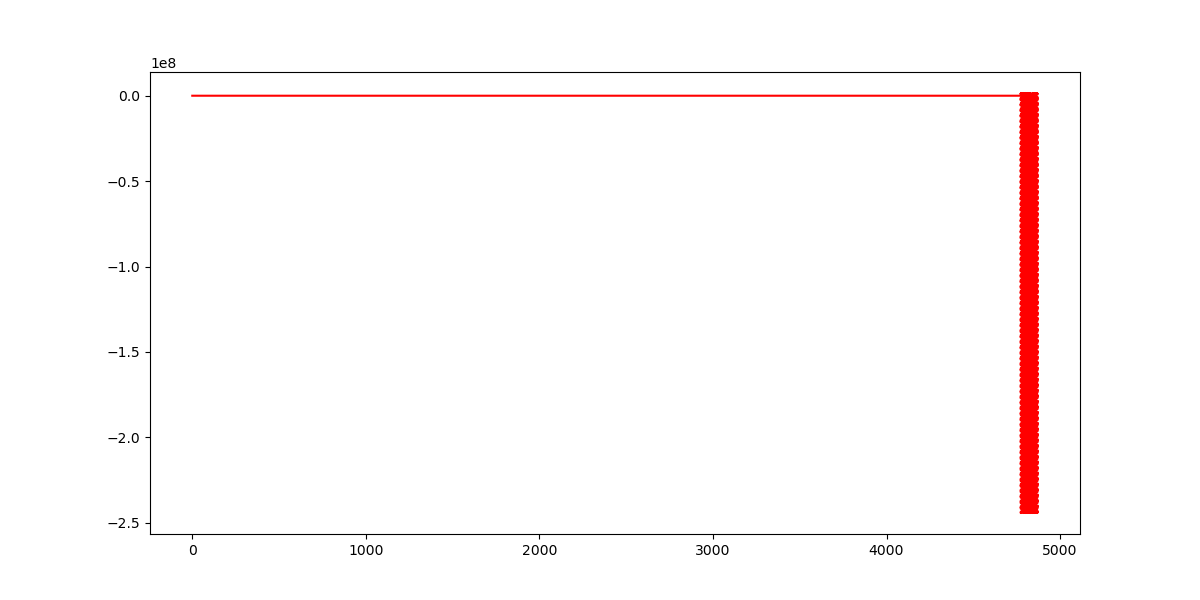
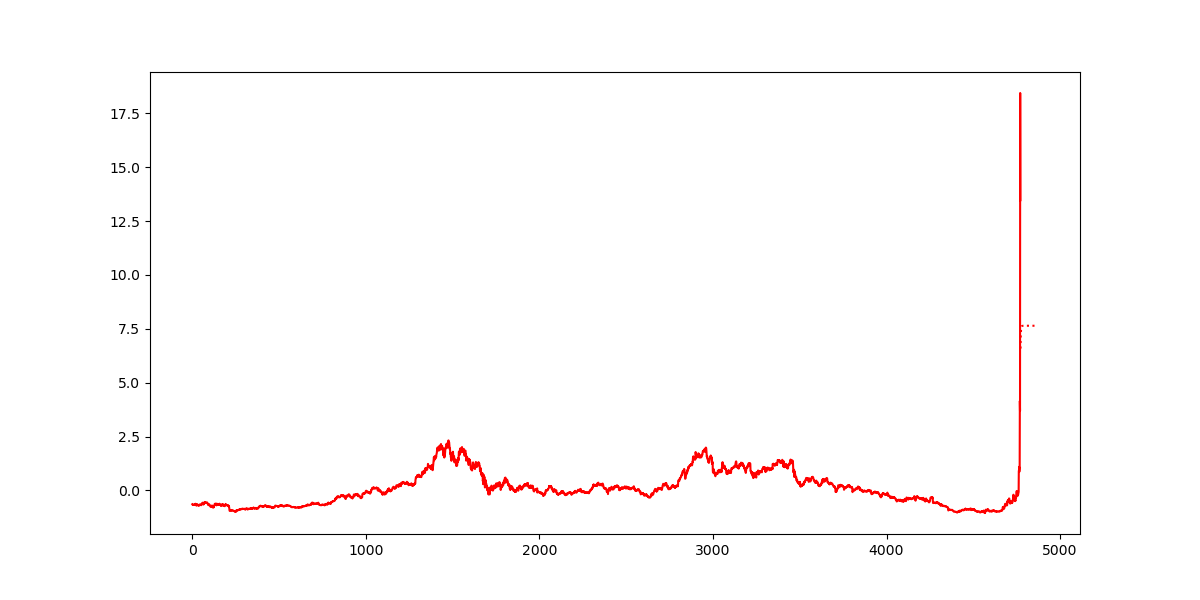
Add files via upload

diff --git a/run.py b/run.py
@@ -5,18 +5,60 @@ from tqdm import tqdm
 from torch.nn import *
 import torch
 import numpy as np
+from sklearn.preprocessing import (
+    StandardScaler,
+    RobustScaler,
+    MinMaxScaler,
+    MaxAbsScaler,
+    OneHotEncoder,
+    LabelEncoder,
+    Normalizer,
+)
 import pandas as pd
 import wandb
 from torch.optim import *
 from model import Model
-device = 'cuda'
-data = pd.read_csv('./data/data.csv')
-data = torch.from_numpy(np.array(data['open_price'].iloc[::-1].tolist()))
-data = data.view(1,-1)
-data_input = data[:3,:-1].to(device)
-data_target = data[:3,1:].float().to(device)
+
+device = "cuda"
+data = pd.read_csv("./data/data.csv")
+data = torch.from_numpy(np.array(data["open_price"].iloc[::-1].tolist()))
+data = data.view(1, -1)
+data_input = data[:3, :-1].to(device)
+data_target = data[:3, 1:].float().to(device)
 model = Model()
-optimizer = LBFGS(model.parameters(),lr=0.8)
+optimizer = LBFGS(model.parameters(), lr=0.8)
 criterion = MSELoss()
 epochs = 100
-model = train(epochs,optimizer,data_input,model,data_target,criterion,'baseline')
+# model = train(epochs, optimizer, data_input, model, data_target, criterion, "baseline")
+pres = [
+    StandardScaler,
+    RobustScaler,
+    MinMaxScaler,
+    MaxAbsScaler,
+    OneHotEncoder,
+    LabelEncoder,
+    Normalizer,
+]
+for pre in pres:
+    data = pd.read_csv("./data/data.csv")
+    data = data["open_price"].iloc[::-1]
+    pre = pre()
+    pre.fit(np.array(data).reshape(-1, 1))
+    data = pre.transform(np.array(data).reshape(-1, 1))
+    data = torch.from_numpy(np.array(data))
+    data = data.view(1, -1)
+    data_input = data[:3, :-1].to(device)
+    data_target = data[:3, 1:].float().to(device)
+    model = Model()
+    optimizer = LBFGS(model.parameters(), lr=0.8)
+    criterion = MSELoss()
+    epochs = 100
+    model = train(
+        epochs,
+        optimizer,
+        data_input,
+        model,
+        data_target,
+        criterion,
+        f"{pre}-preproccessing",
+    )
